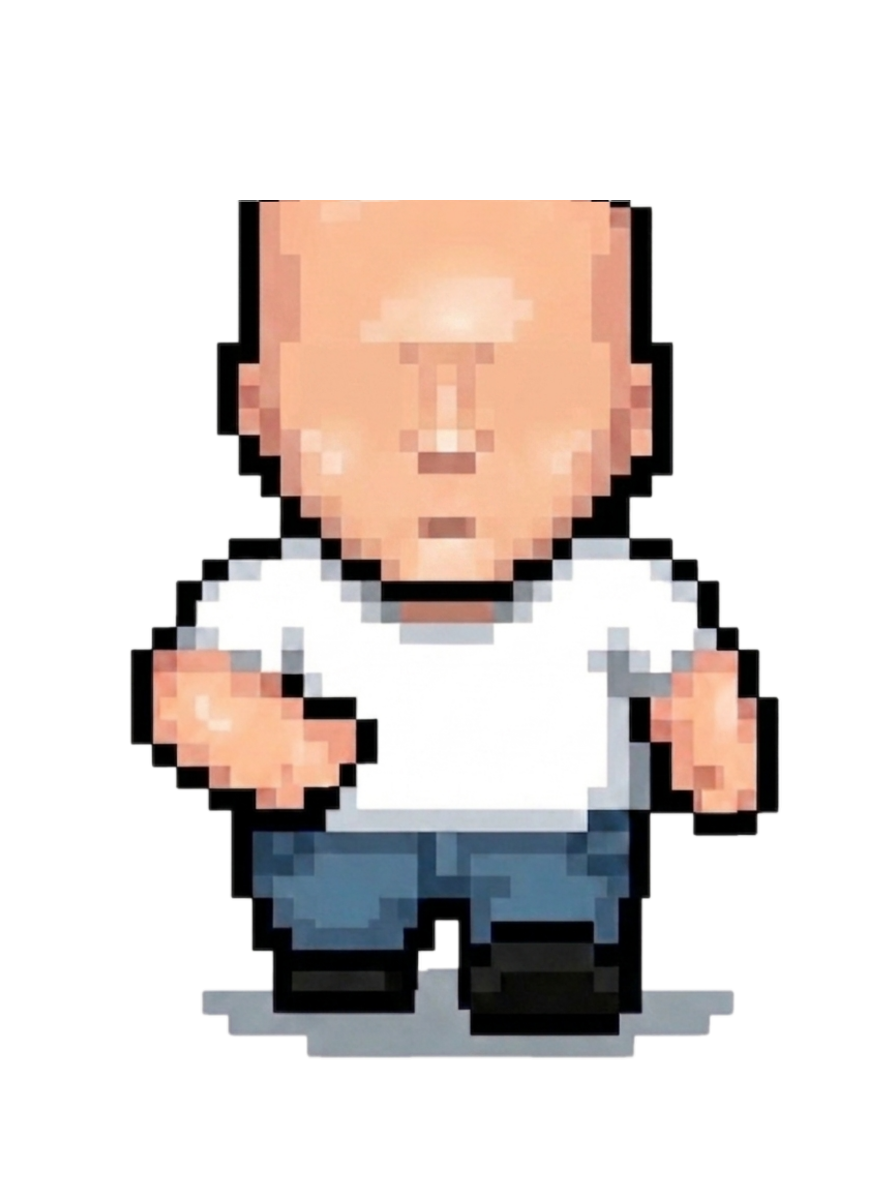
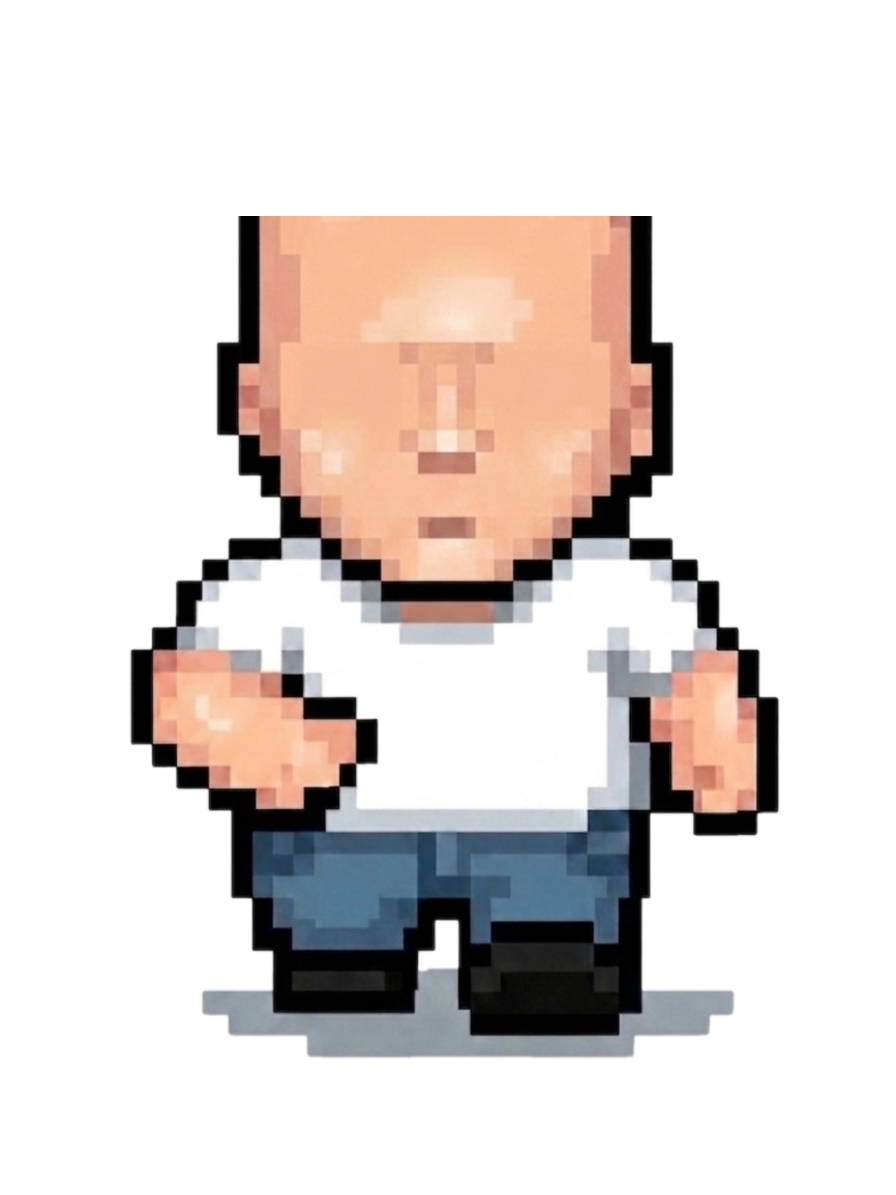
fix

Changed region(s): [[0.25, 0.1548, 0.7188, 0.1858]]

diff --git a/style.css b/style.css
@@ -1971,3 +1971,113 @@ color: #fff;
     grid-template-columns: repeat(2, minmax(0, 1fr));
   }
 }
+
+
+/* Character builder simple override */
+.character-builder-box {
+  width: min(820px, calc(100vw - 28px));
+  padding: 18px;
+  max-height: calc(100vh - 28px);
+}
+
+.character-builder-simple {
+  display: flex;
+  flex-direction: column;
+  gap: 12px;
+}
+
+.character-builder-simple .character-builder-preview-panel {
+  min-height: 230px;
+  max-height: 260px;
+  width: 100%;
+}
+
+.character-builder-simple .character-builder-stage-modal {
+  width: 170px;
+  height: 225px;
+}
+
+.character-builder-topbar {
+  display: grid;
+  grid-template-columns: 180px minmax(0, 1fr);
+  gap: 10px;
+  align-items: stretch;
+}
+
+.character-timeline-row {
+  display: grid;
+  grid-template-columns: 1fr 1fr;
+  gap: 6px;
+}
+
+.character-builder-simple .character-gender-btn {
+  min-height: 38px;
+  padding: 6px;
+  font-size: 7px;
+}
+
+.character-builder-simple .character-gender-symbol {
+  font-size: 16px;
+}
+
+.character-builder-simple .character-builder-subtabs {
+  display: grid;
+  grid-template-columns: repeat(4, minmax(0, 1fr));
+  gap: 6px;
+  margin: 0;
+}
+
+.character-builder-simple .character-builder-subtab {
+  min-height: 38px;
+  font-size: 8px;
+}
+
+.character-builder-simple .character-builder-options-panel {
+  max-height: min(330px, calc(100vh - 520px));
+  min-height: 190px;
+  overflow-y: auto;
+  padding: 12px;
+}
+
+.character-builder-simple .character-builder-panel-title {
+  display: none;
+}
+
+.character-builder-simple .character-choice-row {
+  grid-template-columns: repeat(auto-fill, minmax(120px, 1fr));
+  gap: 10px;
+}
+
+.character-builder-simple .character-choice-btn {
+  min-height: 84px;
+  padding: 8px;
+  font-size: 7px;
+}
+
+.character-builder-simple .character-choice-preview {
+  width: 50px;
+  height: 50px;
+}
+
+.character-builder-simple .character-choice-btn img {
+  width: 46px;
+  height: 46px;
+}
+
+.character-builder-actions {
+  margin-top: 12px;
+}
+
+@media (max-width: 680px) {
+  .character-builder-topbar {
+    grid-template-columns: 1fr;
+  }
+
+  .character-builder-simple .character-builder-subtabs {
+    grid-template-columns: repeat(2, minmax(0, 1fr));
+  }
+
+  .character-builder-simple .character-builder-options-panel {
+    max-height: 300px;
+  }
+}

diff --git a/index.html b/index.html
@@ -71,18 +71,15 @@
   <div id="character-builder-modal" class="badge-modal-overlay character-builder-modal" style="display:none;">
     <div class="badge-modal-box character-builder-box">
       <div class="badge-modal-title">PERSONNALISATION</div>
-      <div class="character-builder-layout">
+      <div class="character-builder-simple">
         <div class="character-builder-preview-panel">
           <div id="character-builder-modal-preview" class="character-builder-stage character-builder-stage-modal" aria-label="Apercu personnage"></div>
         </div>
-        <div class="character-builder-controls">
-          <div class="character-builder-section">
-            <div class="character-builder-label">Timeline</div>
-            <div class="character-choice-row" id="character-timeline-options"></div>
-          </div>
+        <div class="character-builder-topbar">
+          <div class="character-choice-row character-timeline-row" id="character-timeline-options"></div>
           <div class="character-builder-subtabs" id="character-builder-subtabs"></div>
-          <div class="character-builder-options-panel" id="character-builder-options"></div>
         </div>
+        <div class="character-builder-options-panel" id="character-builder-options"></div>
       </div>
       <div class="character-builder-actions">
         <button class="badge-modal-close" id="close-character-builder" type="button">ANNULER</button>
